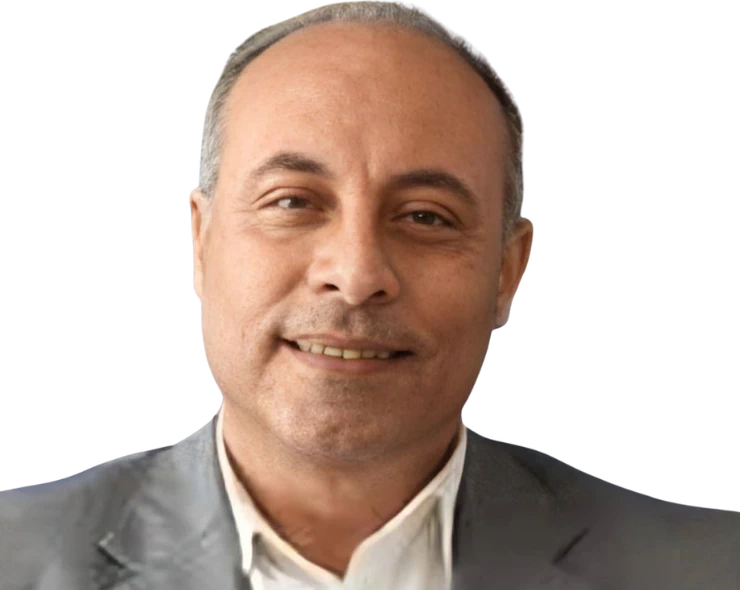
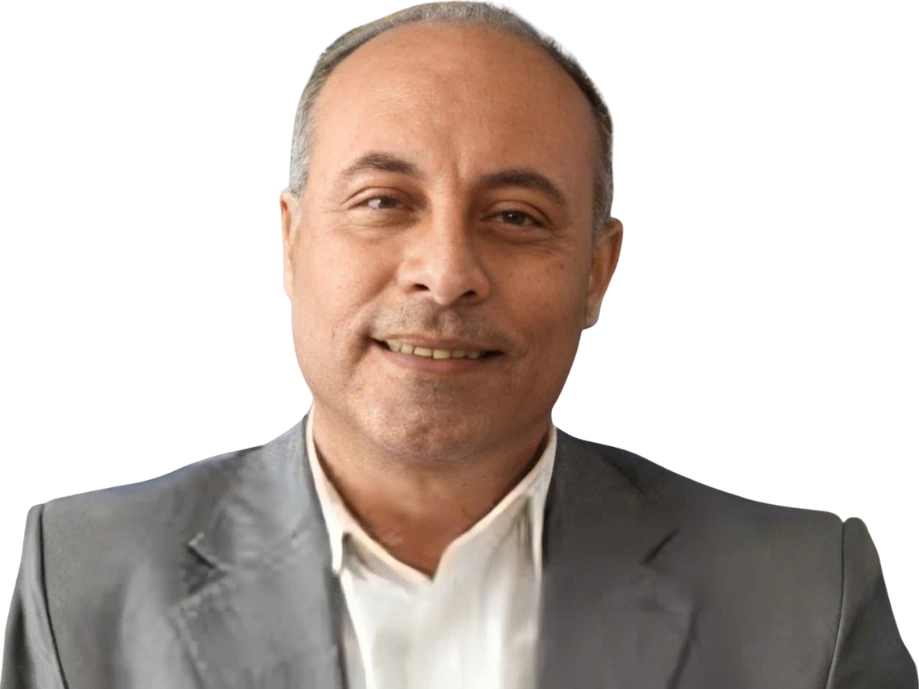
Loosen Yasmeen's and Basem's crops to show shoulders
Both were cropped too tight, so the popup (which fits the cutout to a
fixed height) blew their heads up. Re-crop from the source to a natural
head-and-shoulders: Basem uses the full frame (no more hard sliced
edges), Yasmeen shows her collar and shoulders. Cache-bust both.

diff --git a/main.js b/main.js
@@ -451,14 +451,14 @@ const PROFILES = {
     cutout: true,
   },
   'Basem Izbidi': {
-    photo: 'assets/people/izbidi.webp',
+    photo: 'assets/people/izbidi.webp?v=2',
     cutout: true,
     bio: {
       en: 'Teaches in the Department of Political Science and the Master’s programme in Democracy and Human Rights at Birzeit University. He holds a PhD in political theory from the University of Cincinnati. His research covers Hamas, state-building, political reform, democratisation, and the relationship between the West and the Islamic world. He is co-author of “The West and the Muslim World: The Muslim Position” (IFA, 2004) and co-editor of “Popular Protest in the New Middle East: Islamism and Post-Islamist Politics” (I.B. Tauris, 2014).',
     },
   },
   'ياسمين الجعبة': {
-    photo: 'assets/people/jubeh.webp',
+    photo: 'assets/people/jubeh.webp?v=2',
     cutout: true,
     bio: {
       en: 'Trainee researcher and Master’s student in the Democracy and Human Rights Programme at Birzeit University, currently working on a study titled “Transformations of Language and Consciousness among the Palestinian Elite under British Colonial Rule.”',

diff --git a/index.html b/index.html
@@ -222,6 +222,6 @@
     </div>
   </footer>
 
-  <script src="main.js?v=95"></script>
+  <script src="main.js?v=96"></script>
 </body>
 </html>
